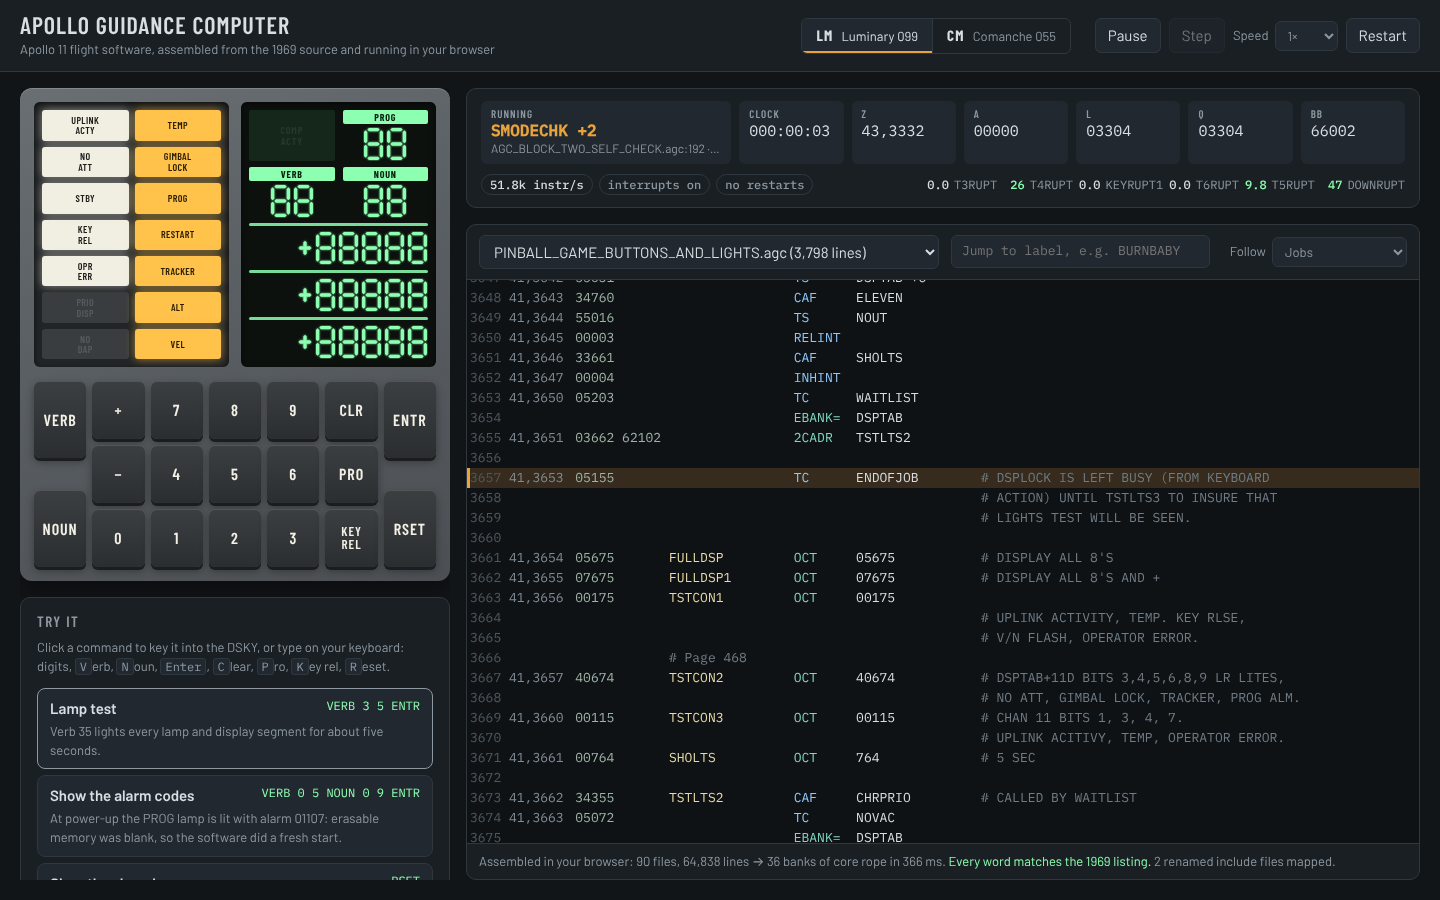
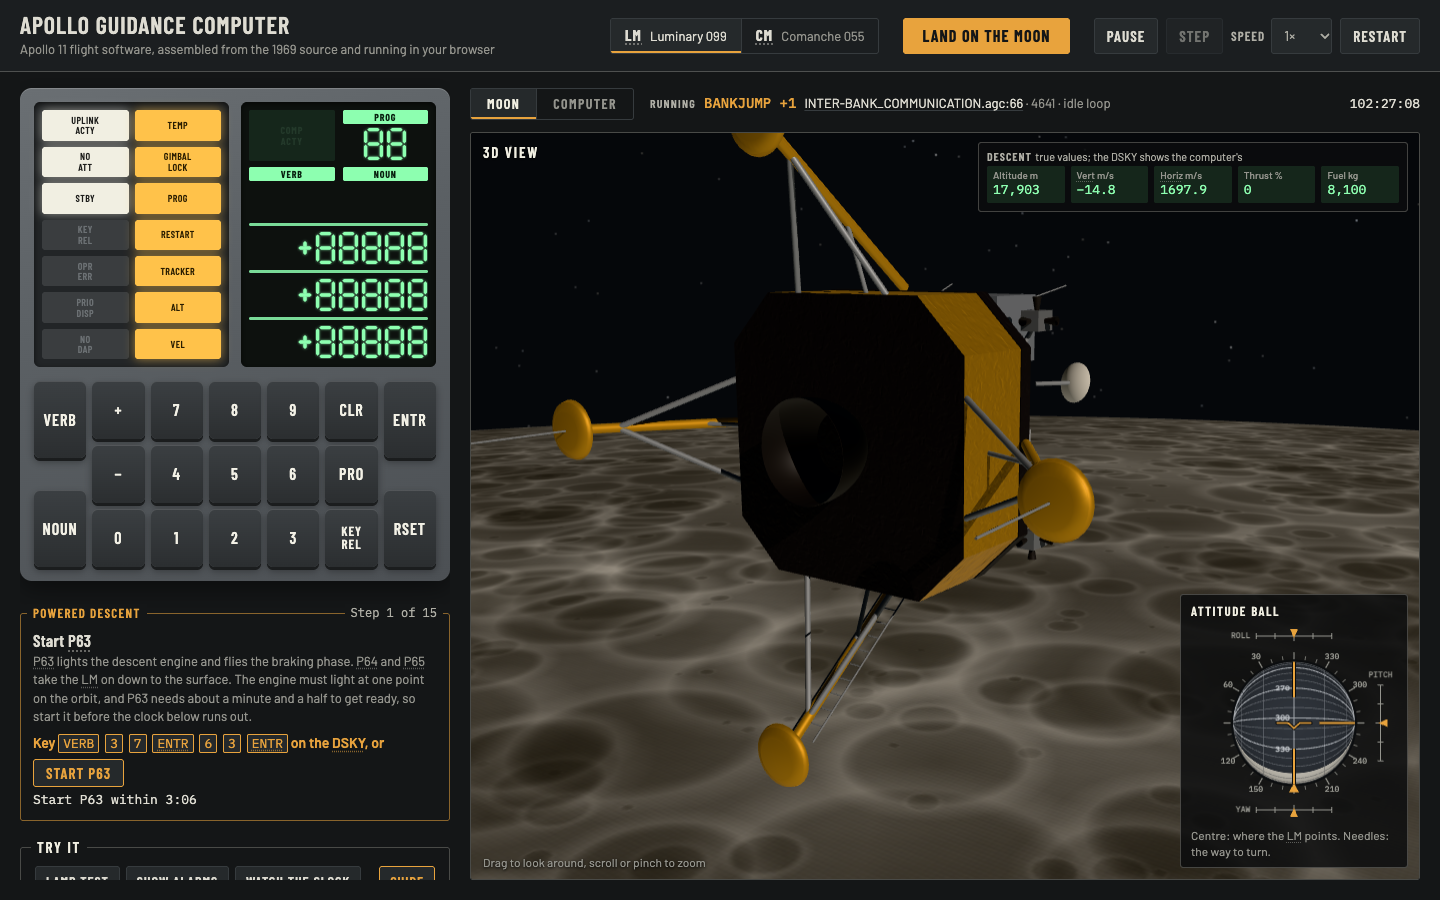
Retake the README screenshots for the new layout
Both screenshots showed the old layout: the listing beside the DSKY on
desktop and the DSKY above the "Try it" list on phones. Retake them after
Land on the Moon, at the same sizes (1440x900, and 390x844 at 2x), so they
show the Moon side with the 3D view, the descent readouts and the
attitude ball, and on phones the 3D view first.

diff --git a/README.md b/README.md
@@ -6,7 +6,7 @@ keyboard) and a live view of the 1969 source code as it executes. In the
 Lunar Module, the computer flies a simulated spacecraft: the original
 autopilot reads the IMU and fires the RCS jets.
 
-![The simulator running the Lunar Module software during a lamp test](docs/screenshot-desktop.png)
+![The simulator after Land on the Moon: the DSKY during a lamp test, the descent checklist, and the Lunar Module in the 3D view](docs/screenshot-desktop.png)
 
 The source is not translated or rewritten. The page loads the original
 `.agc` files from [chrislgarry/Apollo-11](https://github.com/chrislgarry/Apollo-11),
@@ -164,7 +164,7 @@ Its altitude then drifts about 50 m high by high gate, because its
 powered-flight gravity treats the Moon as a sphere, and the LM reaches the
 ground before the computer expects it.
 
-<img src="docs/screenshot-phone.png" alt="The simulator on a phone" width="300" />
+<img src="docs/screenshot-phone.png" alt="The simulator on a phone after Land on the Moon, with the 3D view first" width="300" />
 
 ## How it works
 
